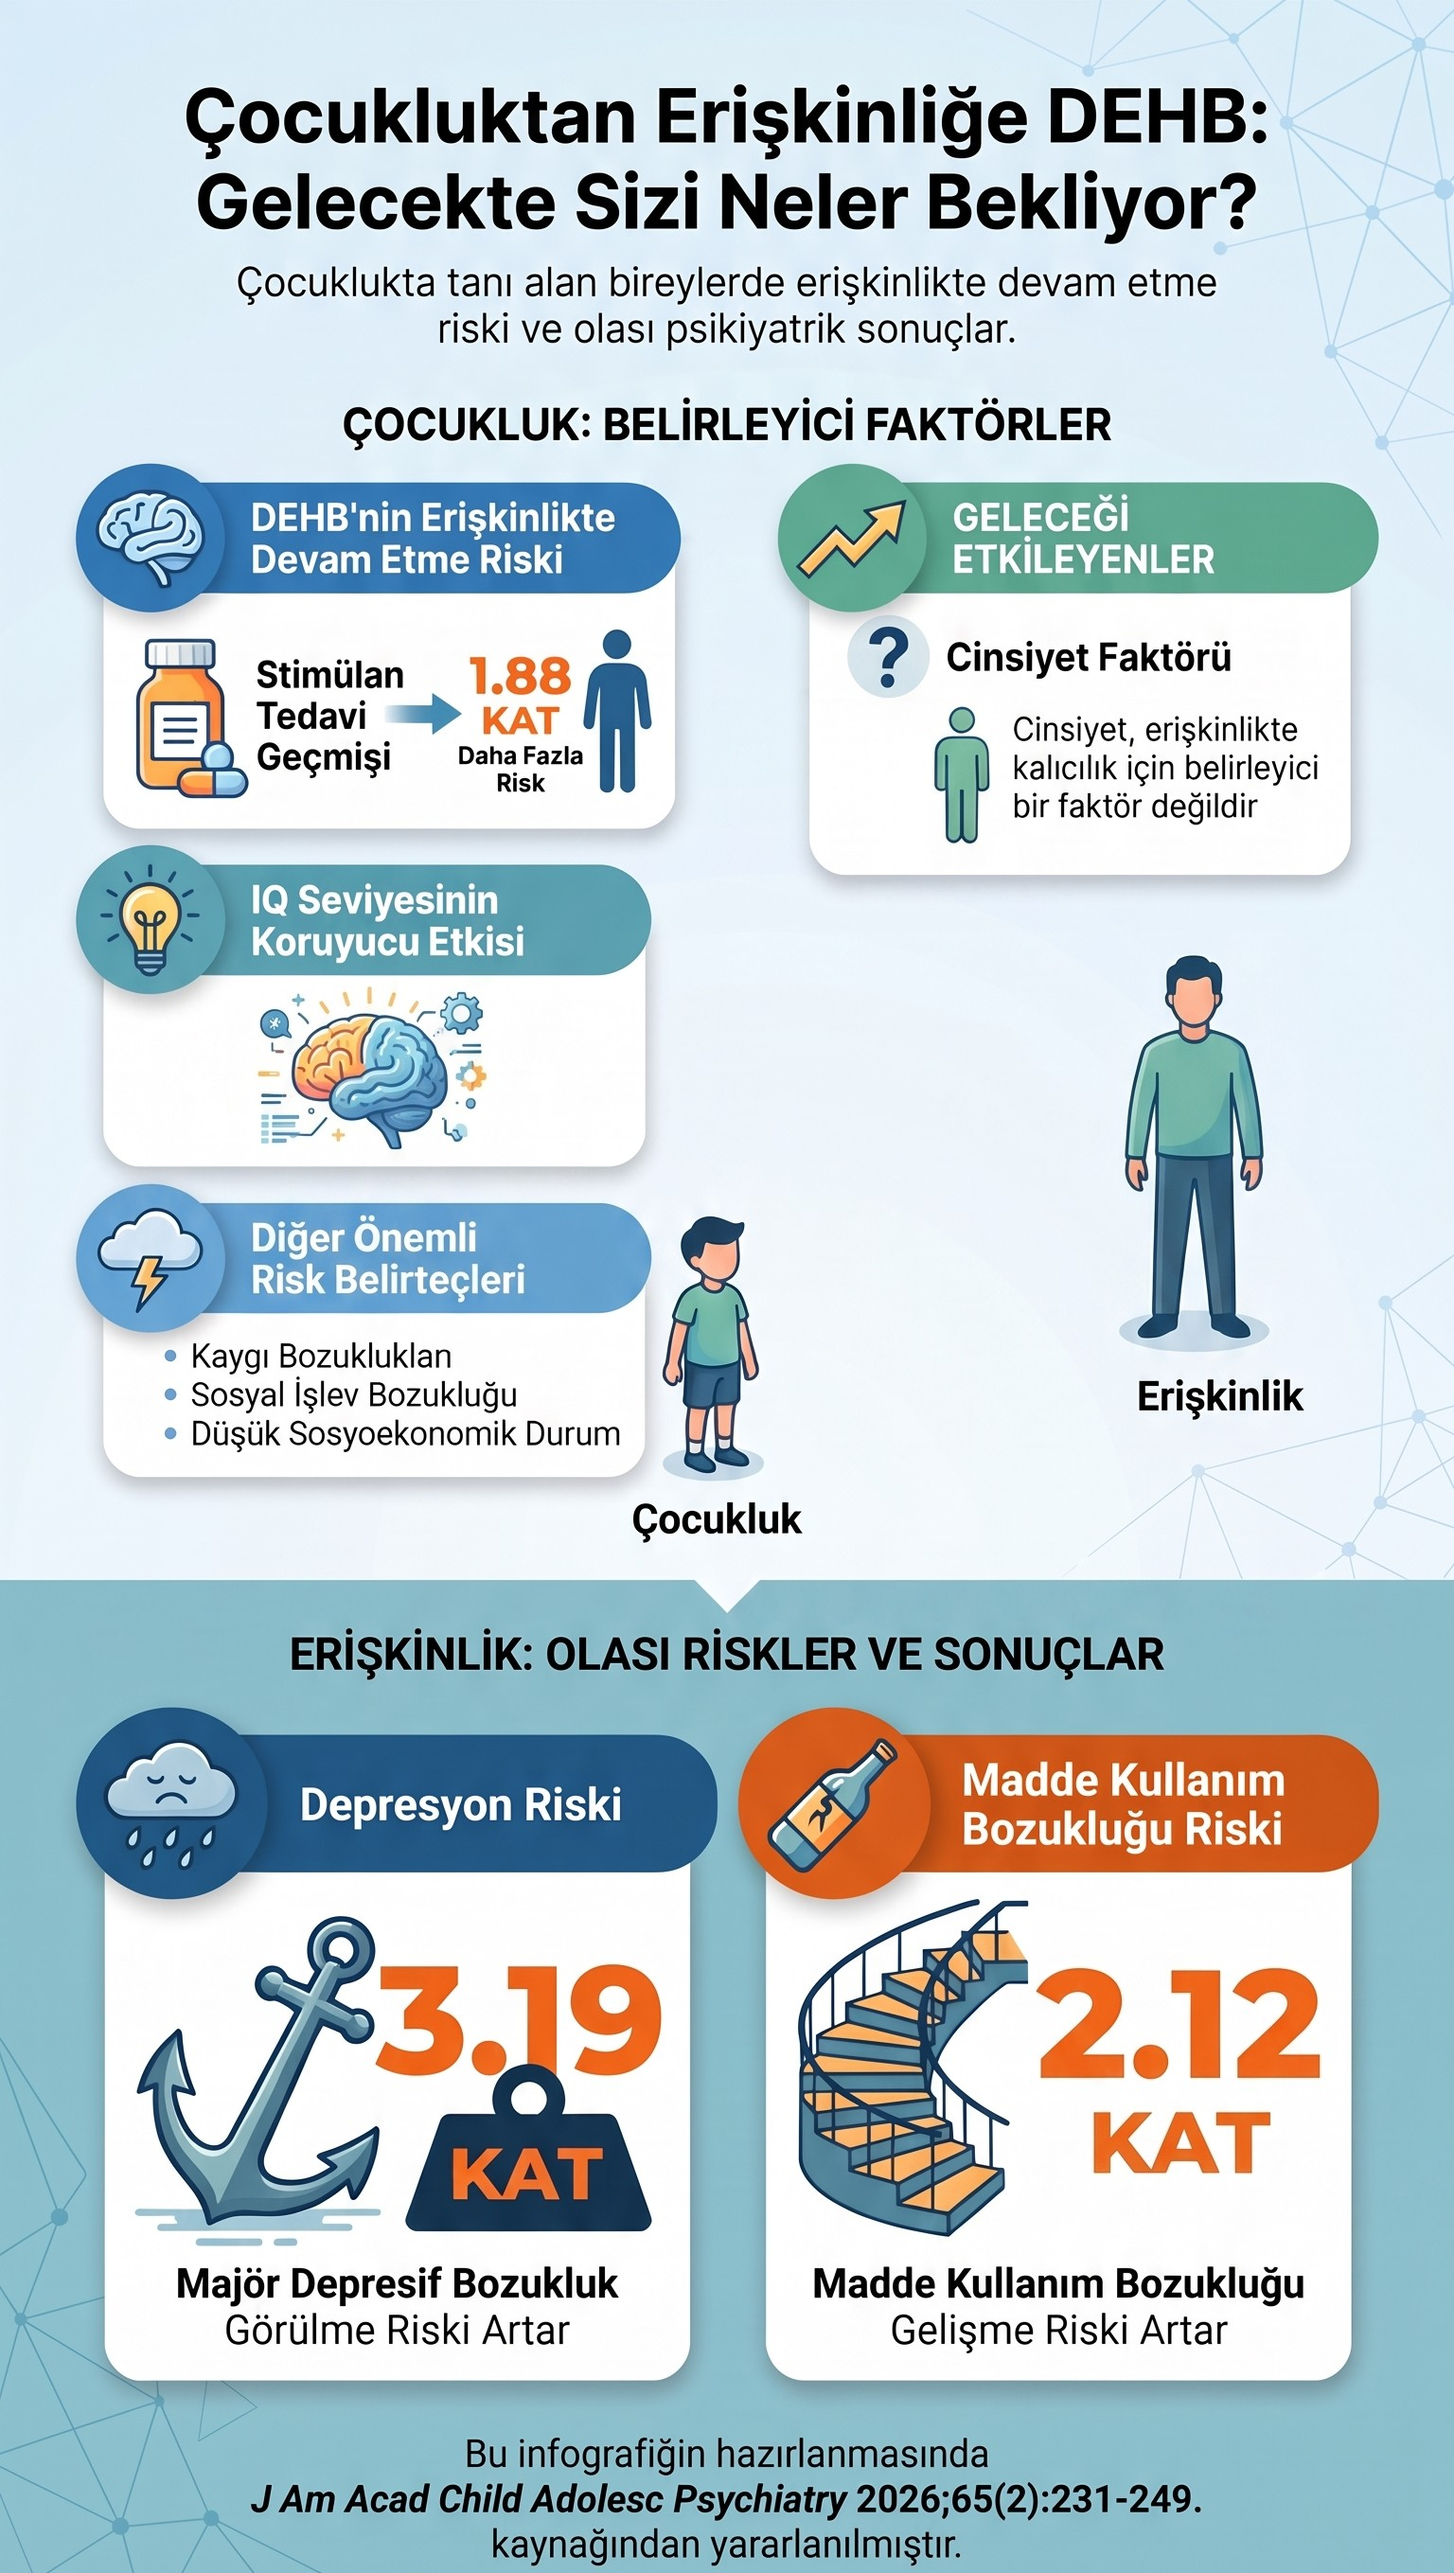
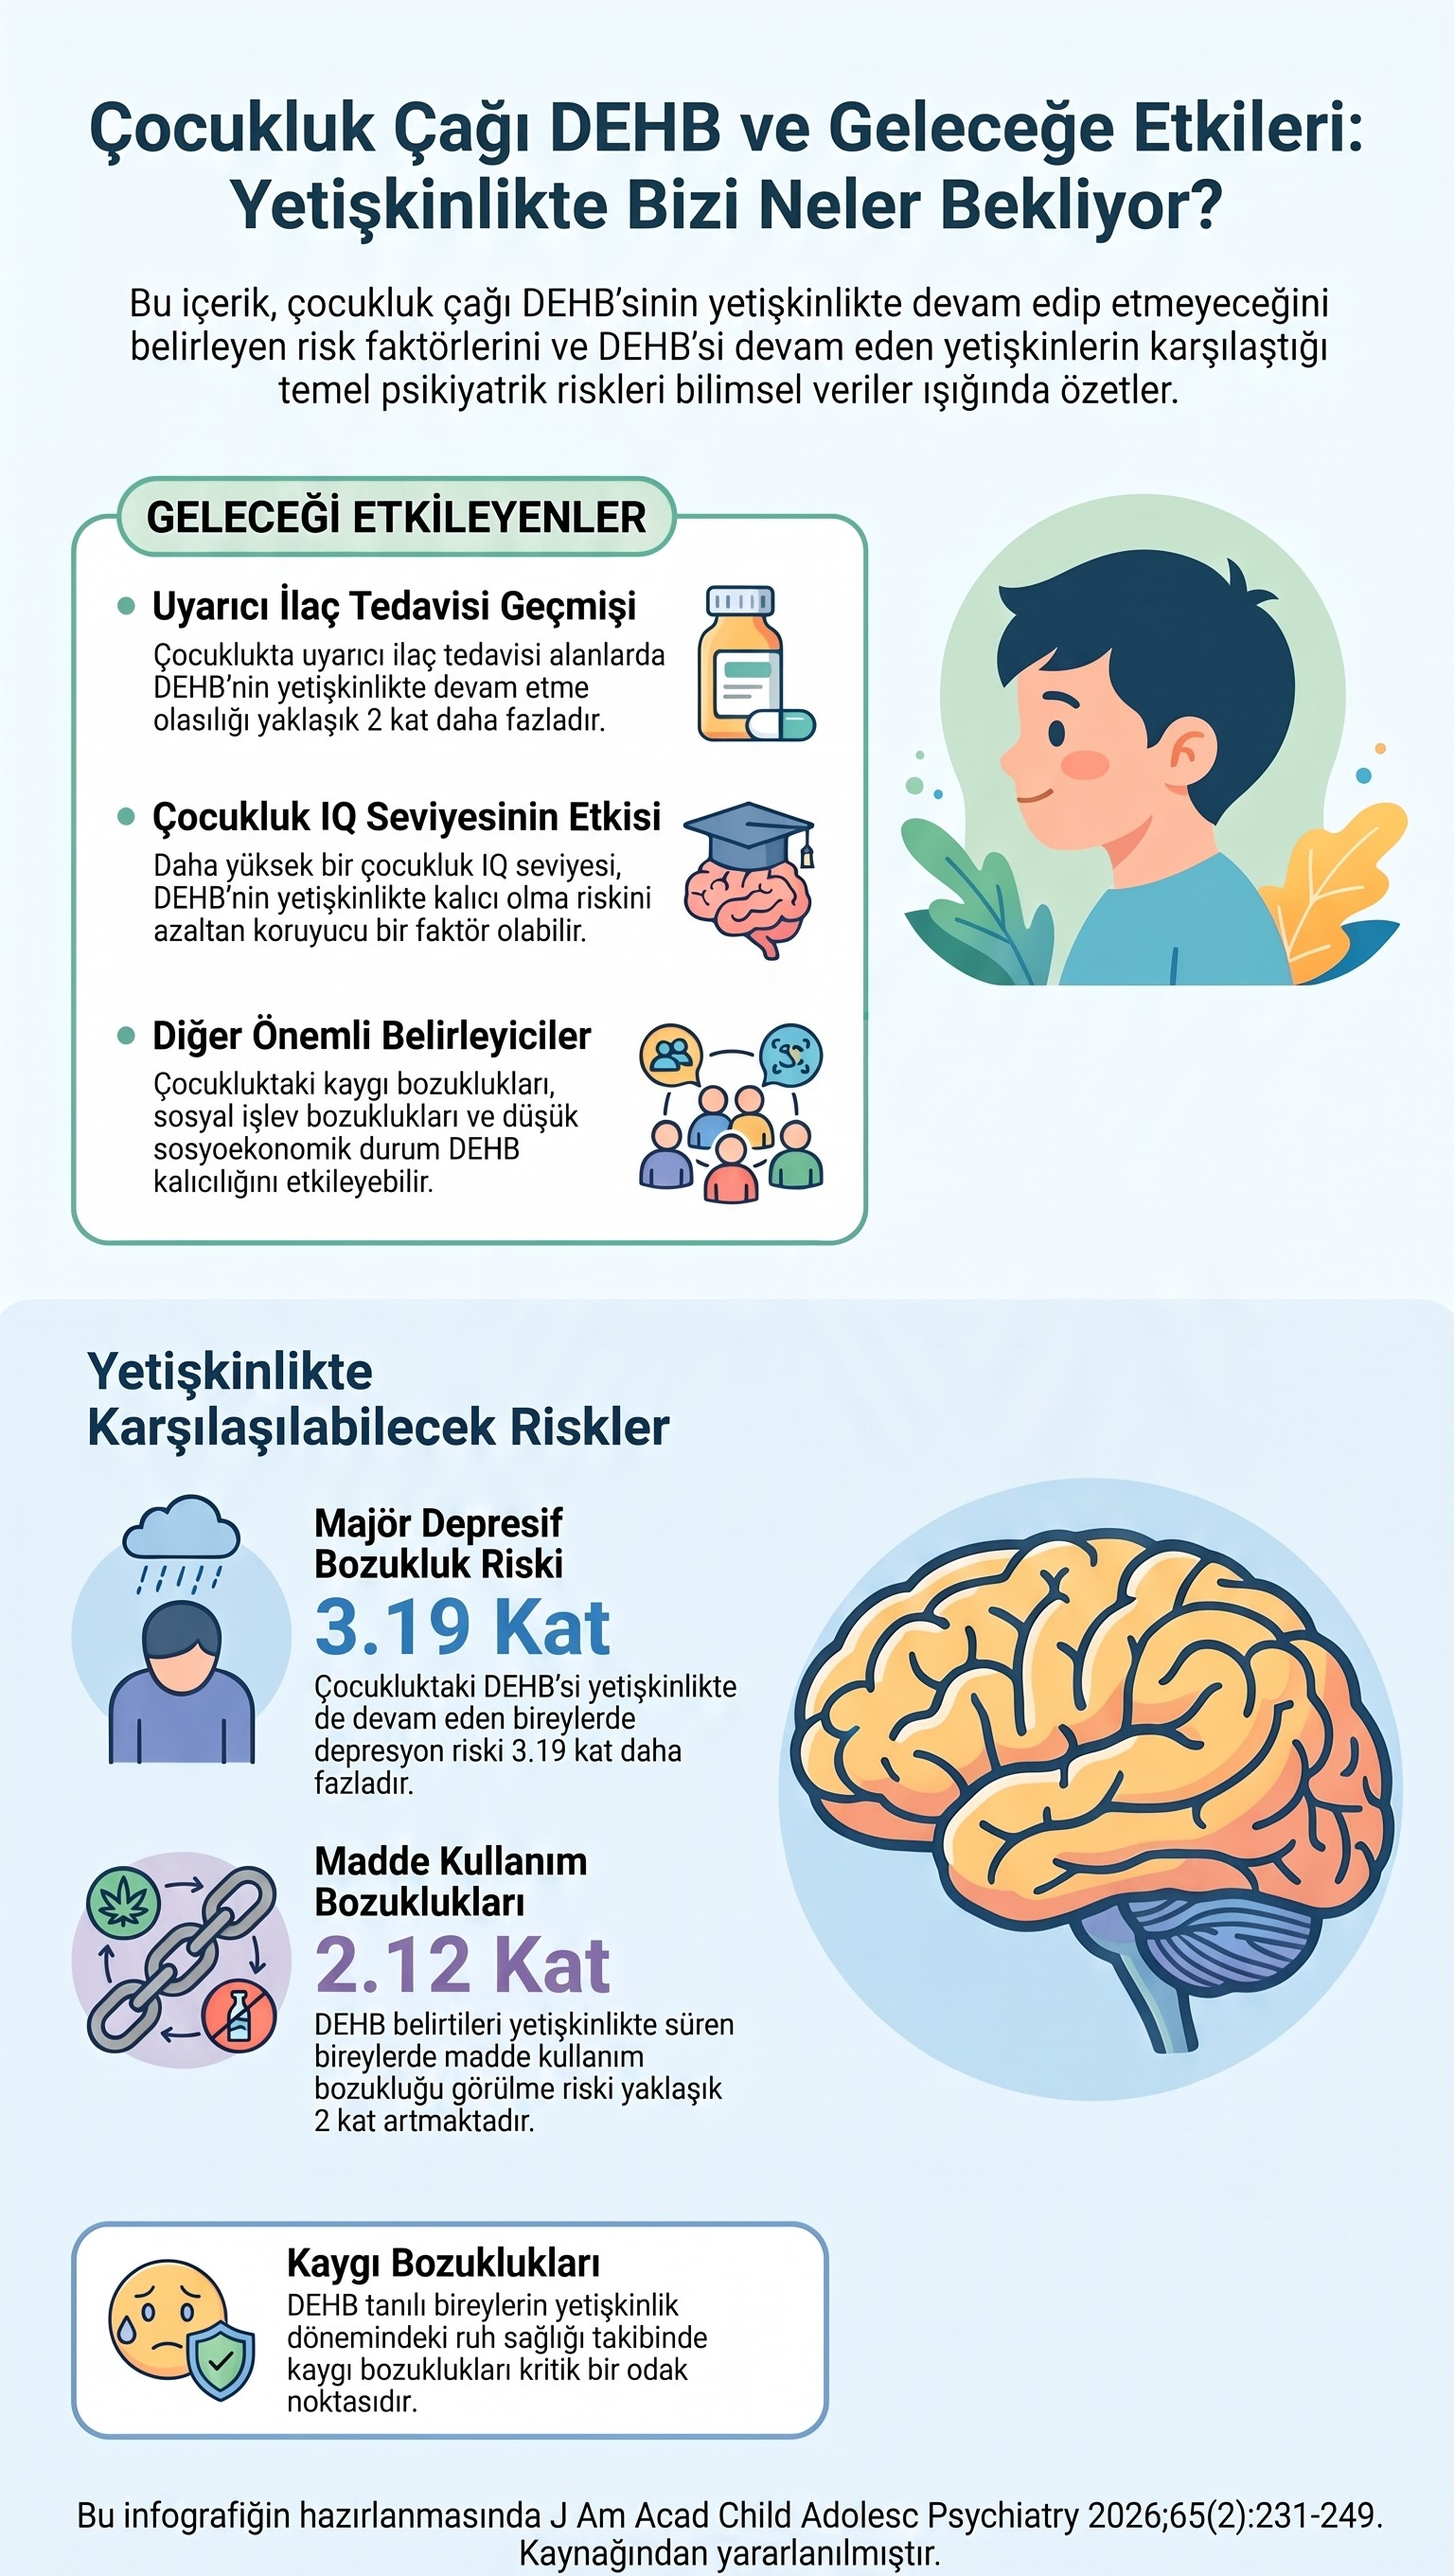
DEHB infografiğini güncel sürümüyle değiştir
Görsel yenilendi; alt metin yeni içeriğe göre yazıldı (1,88 sayısı ve
cinsiyet maddesi artık görselde yok, kaygı bozuklukları maddesi eklendi),
görsel boyutu ve uyarı metni buna göre güncellendi.

Claude-Session: https://claude.ai/code/session_01JhEv671xvcj7NYuhVkgq1Y

diff --git a/yazilar/dehb-cocukluktan-eriskinlige.html b/yazilar/dehb-cocukluktan-eriskinlige.html
@@ -112,12 +112,12 @@
 
   <figure class="figure">
     <img src="../gorseller/dehb-cocukluktan-eriskinlige.jpg"
-         alt="Çocukluktan erişkinliğe DEHB infografiği: çocuklukta DEHB tanısı alan bireylerde bozukluğun erişkinlikte sürmesini öngören etkenler ve erişkinlikteki olası psikiyatrik sonuçlar. Çocukluk dönemi belirleyicileri arasında stimülan tedavi geçmişinin erişkinlikte DEHB'nin sürmesiyle 1,88 kat artmış olasılıkla ilişkili bulunduğu; çocuklukta daha yüksek zekâ düzeyinin koruyucu yönde etki gösterdiği; cinsiyetin kalıcılık açısından belirleyici bulunmadığı; kaygı bozuklukları, sosyal işlev güçlüğü ve düşük sosyoekonomik durumun olası diğer risk belirteçleri olarak sıralandığı yer almaktadır. Erişkinlik bölümünde ise DEHB'si erişkinlikte süren bireylerde majör depresif bozukluk görülme olasılığının 3,19 kat, madde kullanım bozukluğu gelişme olasılığının 2,12 kat artmış bulunduğu gösterilmektedir."
-         loading="lazy" width="1536" height="2718">
+         alt="Çocukluk çağı DEHB'sinin geleceğe etkileri infografiği: çocukluk çağı DEHB'sinin erişkinlikte sürüp sürmeyeceğini belirleyen etkenler ve DEHB'si süren erişkinlerin karşılaştığı temel psikiyatrik riskler. Geleceği etkileyenler bölümünde, çocuklukta uyarıcı ilaç tedavisi alanlarda DEHB'nin erişkinlikte sürme olasılığının yaklaşık iki kat daha fazla olduğu; çocuklukta daha yüksek zekâ düzeyinin kalıcılık riskini azaltan koruyucu bir etken olabileceği; çocukluktaki kaygı bozuklukları, sosyal işlev güçlükleri ve düşük sosyoekonomik durumun DEHB'nin kalıcılığını etkileyebileceği belirtilmektedir. Erişkinlikte karşılaşılabilecek riskler bölümünde ise çocukluktaki DEHB'si erişkinlikte de süren bireylerde majör depresif bozukluk riskinin 3,19 kat, madde kullanım bozukluğu görülme riskinin yaklaşık iki kat (2,12) arttığı; kaygı bozukluklarının ise bu bireylerin erişkinlik dönemindeki ruh sağlığı izleminde kritik bir odak noktası olduğu yer almaktadır."
+         loading="lazy" width="1536" height="2721">
   </figure>
   <p class="figure-note">Görseli büyütmek için <a href="../gorseller/dehb-cocukluktan-eriskinlige.jpg" target="_blank" rel="noopener">tam boyutta açabilirsiniz</a>.</p>
 
-  <p class="disclaimer">Bu sayfadaki bilgiler yalnızca genel bilgilendirme amaçlıdır; tanı ve tedavi yerine geçmez. Görseldeki sayılar birçok çalışmanın birlikte değerlendirilmesiyle elde edilen ortalama risk oranlarıdır; bir kişinin gidişatını öngörmez ve bu sonuçların kaçınılmaz olduğu anlamına gelmez. Özellikle iki noktanın yanlış anlaşılmaması önemlidir. Birincisi, stimülan tedavi geçmişiyle ilgili sayı bir <em>birliktelik</em>tir; ilacın DEHB'yi sürdürdüğünü göstermez. Genellikle daha ağır seyreden olgular tedavi aldığı için bu iki durum birlikte görünür. İlaç tedavisini bu nedenle bırakmayınız; tedavinizde hiçbir değişikliği hekiminize danışmadan yapmayınız. İkincisi, depresyon ve madde kullanım bozukluğuna ilişkin oranlar, DEHB'si erişkinlikte süren kişiler için geçerlidir. Kaygı bozuklukları, sosyal işlev güçlüğü ve sosyoekonomik durum ise kesinleşmiş etkenler değil, üzerinde durulan olası risk belirteçleridir. Çocuğunuzda ya da kendinizde süregelen dikkat, dürtüsellik veya işlevsellik sorunları varsa bir ruh sağlığı uzmanına başvurunuz.</p>
+  <p class="disclaimer">Bu sayfadaki bilgiler yalnızca genel bilgilendirme amaçlıdır; tanı ve tedavi yerine geçmez. Görseldeki sayılar birçok çalışmanın birlikte değerlendirilmesiyle elde edilen ortalama risk oranlarıdır; bir kişinin gidişatını öngörmez ve bu sonuçların kaçınılmaz olduğu anlamına gelmez. Özellikle uyarıcı ilaç tedavisine ilişkin sayının yanlış anlaşılmaması önemlidir: bu bir <em>birliktelik</em>tir, ilacın DEHB'yi sürdürdüğünü göstermez. Genellikle daha ağır seyreden olgular tedavi aldığı için bu iki durum birlikte görünür. İlaç tedavisini bu nedenle bırakmayınız; tedavinizde hiçbir değişikliği hekiminize danışmadan yapmayınız. Çocukluktaki kaygı bozuklukları, sosyal işlev güçlüğü ve sosyoekonomik durum ise kesinleşmiş etkenler değil, üzerinde durulan olası risk belirteçleridir. Çocuğunuzda ya da kendinizde süregelen dikkat, dürtüsellik veya işlevsellik sorunları varsa bir ruh sağlığı uzmanına başvurunuz.</p>
 
   <a class="back-link" href="../index.html#halka">← Ruh sağlığı hakkında bölümüne dön</a>
 </main>
